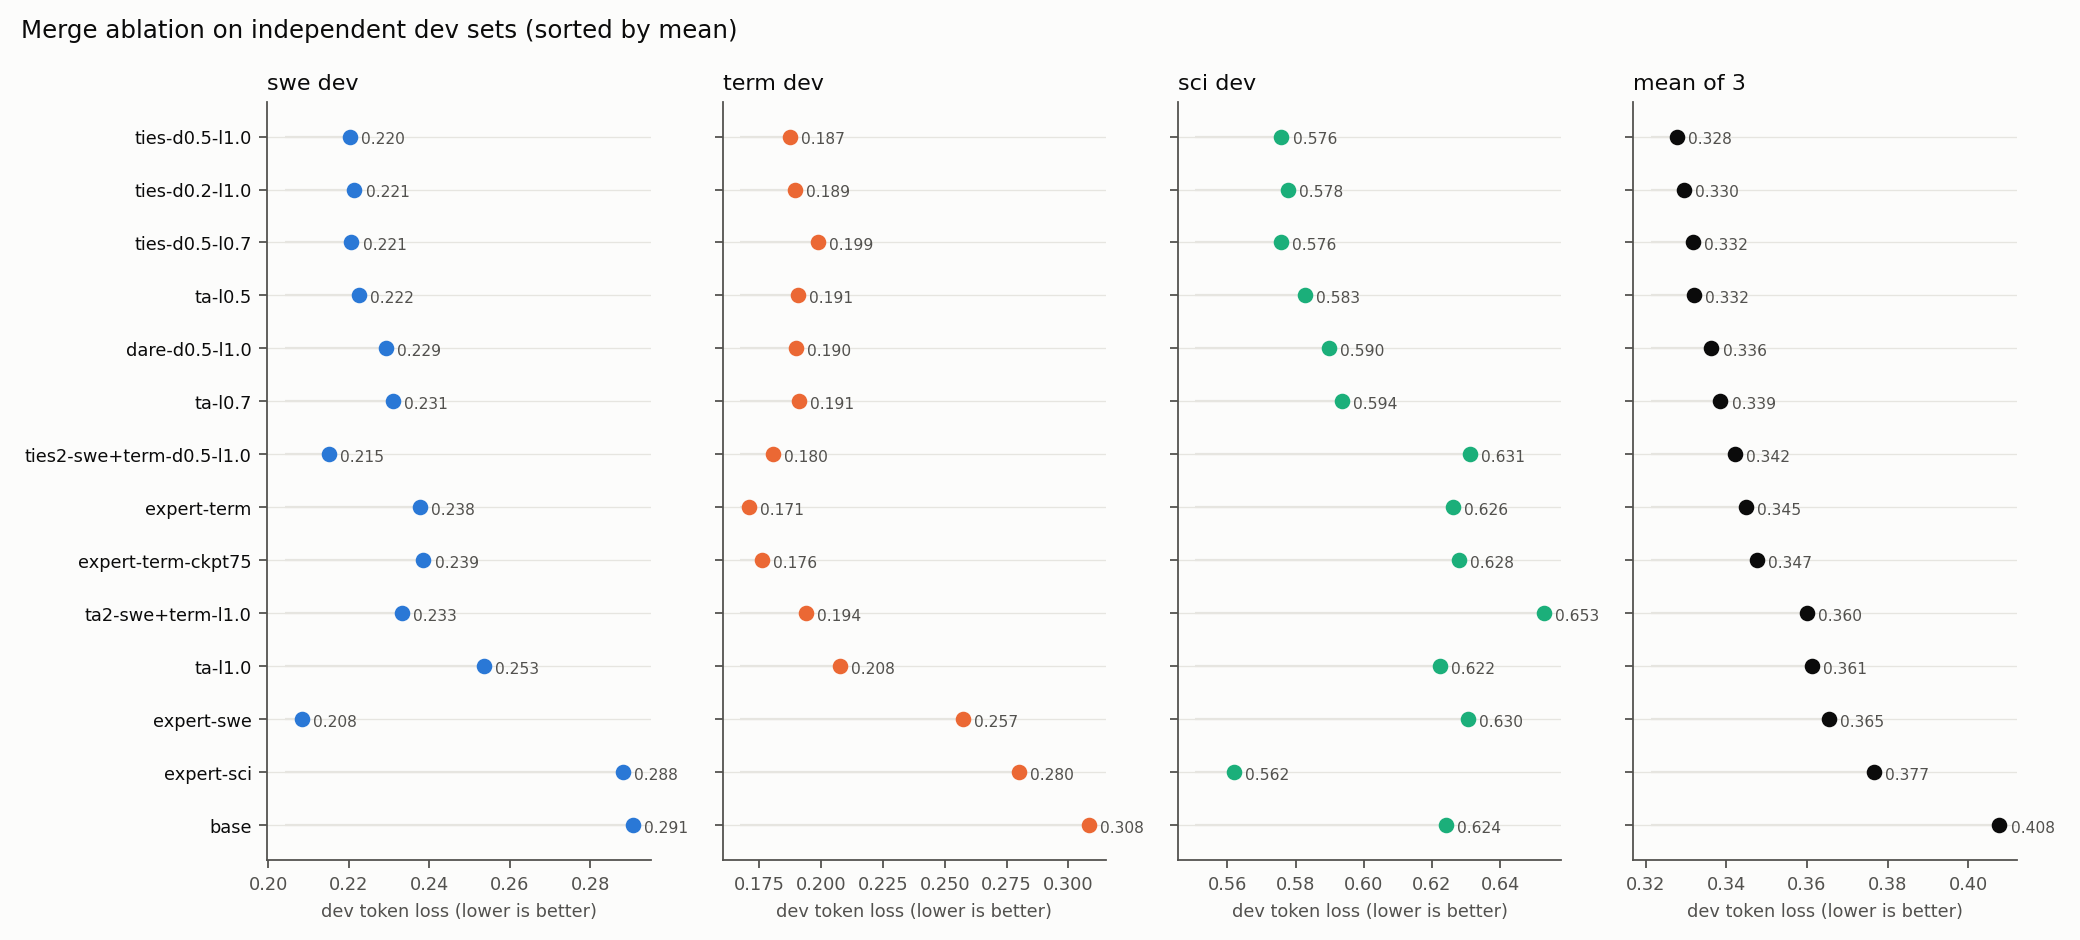
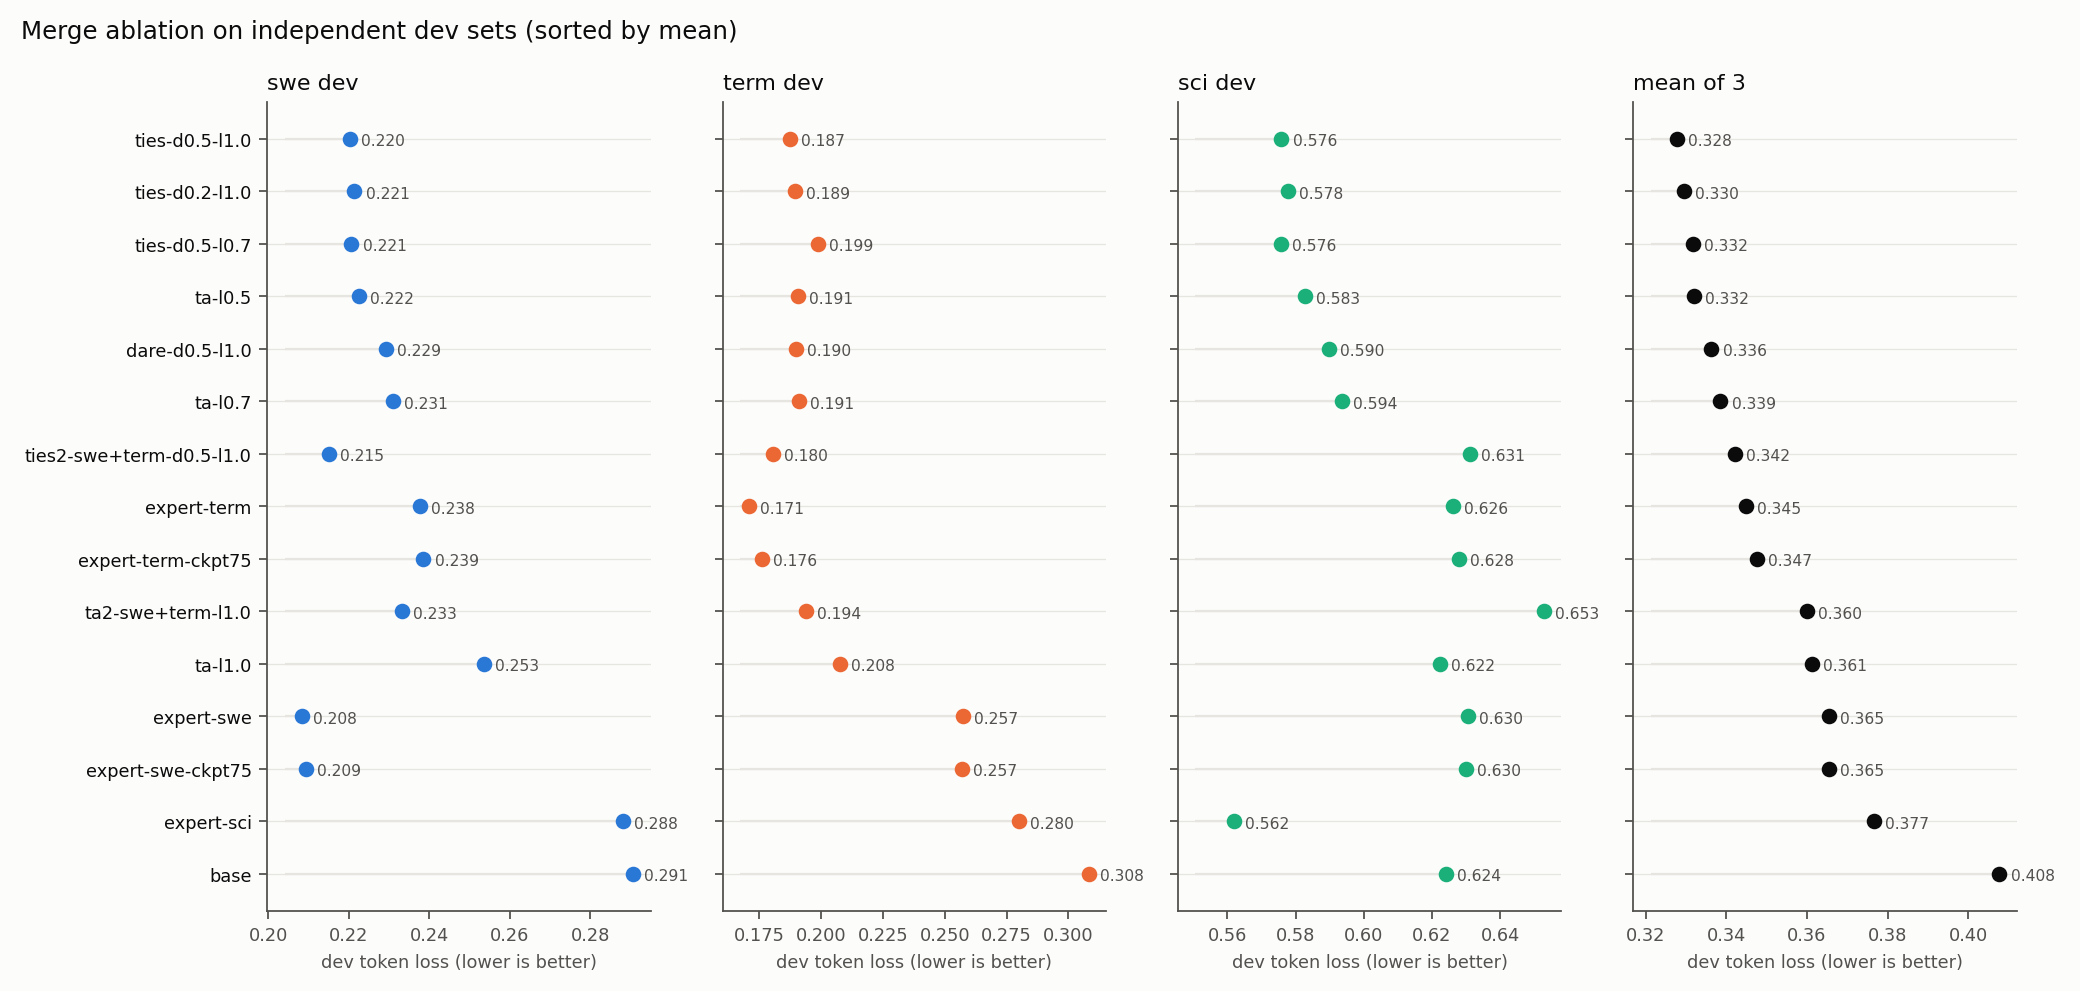
plot_curves reads logs/train-<expert>

diff --git a/scripts/plot_curves.py b/scripts/plot_curves.py
@@ -2,7 +2,7 @@
 
     python scripts/plot_curves.py --runs outputs --dev results/dev
 
-Inputs: outputs/<expert>/metrics.jsonl (written every step by takehome.sft) and
+Inputs: logs/train-<expert>/metrics.jsonl (written every step by takehome.sft) and
 results/dev/<config>.json (takehome.dev_loss). Writes curves/source/*.csv (the plotted data),
 curves/expert_loss.png and curves/merge_ablation.png. Train loss is plotted raw (thin) plus a
 10-step trailing mean; dev loss is every 25 steps on the first 100 dev examples.
@@ -44,11 +44,13 @@ def load_metrics(path):
 
 
 def expert_curves(runs, out):
-    avail = [e for e in EXPERTS if (runs / e / "metrics.jsonl").exists()]
+    def mpath(e):  # logs/train-<e>/metrics.jsonl (repo layout) or outputs/<e>/metrics.jsonl
+        return next((p for p in (runs / f"train-{e}" / "metrics.jsonl", runs / e / "metrics.jsonl") if p.exists()), None)
+    avail = [e for e in EXPERTS if mpath(e)]
     fig, axes = plt.subplots(1, len(avail), figsize=(3.6 * len(avail), 3.0), facecolor="#fcfcfb")
     axes = [axes] if len(avail) == 1 else axes
     for ax, e, color in zip(axes, avail, SERIES):
-        train, dev = load_metrics(runs / e / "metrics.jsonl")
+        train, dev = load_metrics(mpath(e))
         with open(out / "source" / f"loss_{e}.csv", "w", newline="") as f:
             w = csv.writer(f)
             w.writerow(["split", "step", "loss"])
@@ -106,7 +108,7 @@ def merge_ablation(dev_dir, out):
 
 def main():
     ap = argparse.ArgumentParser()
-    ap.add_argument("--runs", default="outputs")
+    ap.add_argument("--runs", default="logs")
     ap.add_argument("--dev", default="results/dev")
     ap.add_argument("--out", default="curves")
     a = ap.parse_args()
